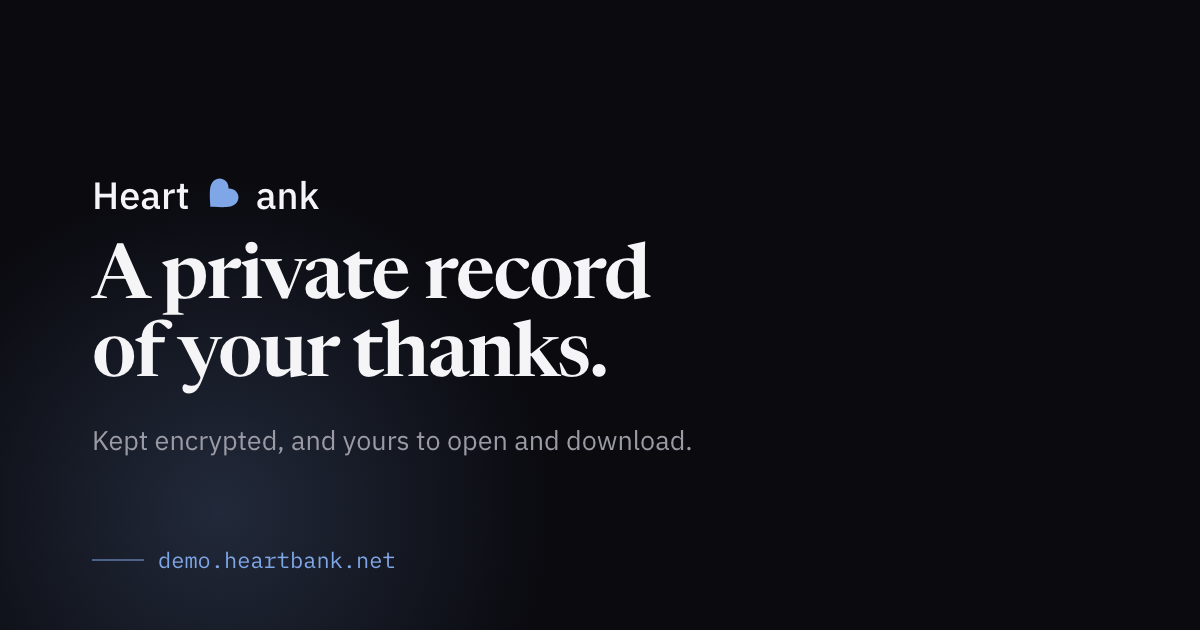
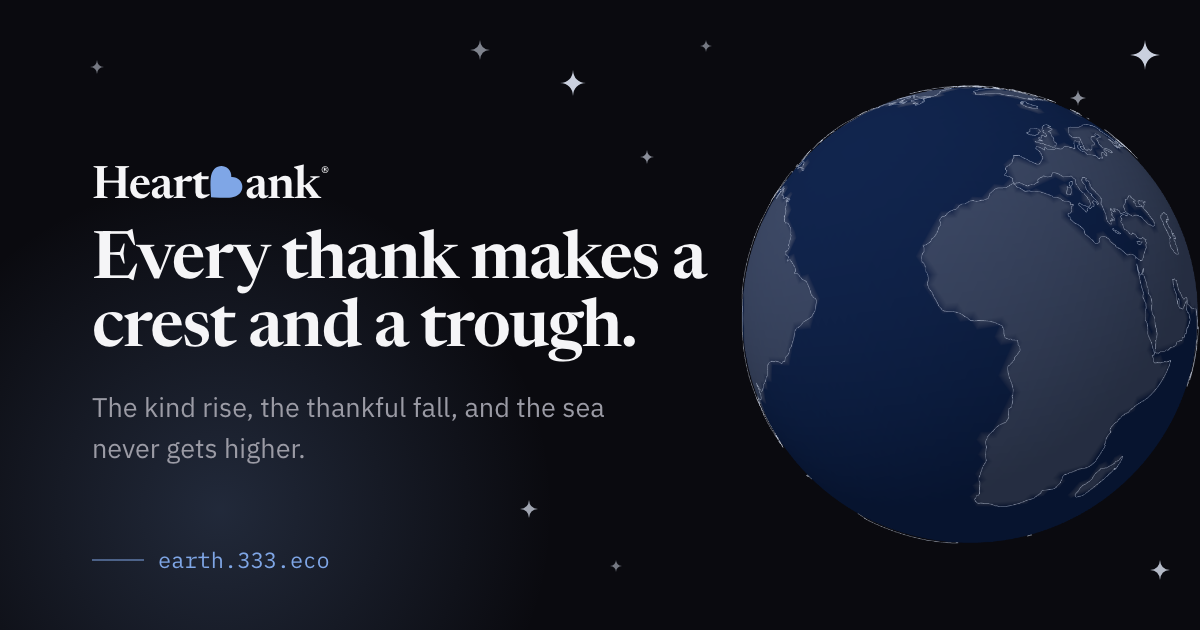
The Earth: new link preview and page descriptions

diff --git a/earth/build-boards.py b/earth/build-boards.py
@@ -83,8 +83,10 @@ T = {
         "ledger_json": "The same data as a file", "ledger_title_tag": "The ledger, day by day · HeartBank®",
         "draft_note": "This is a draft. No lawyer has reviewed it, and it may change before it is final. Where something is not settled yet, it says so.",
         "copied": "Copied", "working": "Working", "auto": "Auto", "light": "Light", "dark": "Dark",
-        "title_home": "A private record of your thanks · HeartBank®", "title_you": "Your record · HeartBank®",
-        "desc": "A private, encrypted record of your thanks, timestamped to a public ledger. Yours to open and download.",
+        "title_home": "Every thank makes a crest and a trough · HeartBank®", "title_you": "Your record · HeartBank®",
+        "desc": "Every thank on HeartBank® makes a crest and a trough on a turning Earth. The kind rise, the thankful fall by the same amount, and the sea never gets higher.",
+        "desc_ledger": "The public sea, day by day and area by area: what is on the map, what is in the open sea, and what they add up to.",
+        "desc_scholars": "The kinds of question a scholar could ask of the gratitude ledger, and the comparison that comes back. Worked here on simulated people.",
         "receipt": "Receipt", "r_place": "Place in the log", "r_finger": "Fingerprint", "r_log": "Log", "r_sig": "Signature",
         "copy": "Copy receipt", "check": "Check it on the public ledger",
         "jubilee": "On 7 January every balance starts again from zero. These entries stay.",
@@ -165,8 +167,10 @@ T = {
         "ledger_json": "ទិន្នន័យដូចគ្នាជាឯកសារ", "ledger_title_tag": "បញ្ជី តាមថ្ងៃនីមួយៗ · HeartBank®",
         "draft_note": "នេះជាសេចក្តីព្រាង ហើយមានជាភាសាអង់គ្លេសតែប៉ុណ្ណោះនៅពេលនេះ។ មិនទាន់មានមេធាវីពិនិត្យទេ ហើយវាអាចផ្លាស់ប្តូរមុនពេលចុងក្រោយ។",
         "copied": "បានចម្លង", "working": "កំពុងដំណើរការ", "auto": "ស្វ័យប្រវត្តិ", "light": "ភ្លឺ", "dark": "ងងឹត",
-        "title_home": "កំណត់ត្រាឯកជននៃការអរគុណរបស់អ្នក · HeartBank®", "title_you": "កំណត់ត្រារបស់អ្នក · HeartBank®",
-        "desc": "កំណត់ត្រាឯកជន និងបានអ៊ិនគ្រីបនៃការអរគុណរបស់អ្នក បោះត្រាពេលវេលាទៅក្នុងបញ្ជីសាធារណៈ។ ជារបស់អ្នកសម្រាប់បើកមើល និងទាញយក។",
+        "title_home": "រាល់ការអរគុណបង្កើតកំពូលរលក និងបាតរលក · HeartBank®", "title_you": "កំណត់ត្រារបស់អ្នក · HeartBank®",
+        "desc": "រាល់ការអរគុណនៅលើ HeartBank® បង្កើតកំពូលរលក និងបាតរលកនៅលើផែនដីដែលកំពុងវិល។ អ្នកមានចិត្តល្អឡើង អ្នកដឹងគុណចុះក្នុងចំនួនដូចគ្នា ហើយសមុទ្រមិនដែលខ្ពស់ឡើងទេ។",
+        "desc_ledger": "សមុទ្រសាធារណៈ តាមថ្ងៃ និងតាមតំបន់៖ អ្វីនៅលើផែនទី អ្វីនៅក្នុងសមុទ្របើកចំហ និងផលបូករបស់វា។",
+        "desc_scholars": "ប្រភេទសំណួរដែលអ្នកស្រាវជ្រាវអាចសួរបញ្ជីនៃការដឹងគុណ និងការប្រៀបធៀបដែលត្រឡប់មកវិញ។ បង្ហាញនៅទីនេះលើមនុស្សក្លែងធ្វើ។",
         "receipt": "បង្កាន់ដៃ", "r_place": "ទីតាំងក្នុងកំណត់ហេតុ", "r_finger": "ស្នាមម្រាមដៃឌីជីថល", "r_log": "កំណត់ហេតុ", "r_sig": "ហត្ថលេខា",
         "copy": "ចម្លងបង្កាន់ដៃ", "check": "ពិនិត្យវានៅលើបញ្ជីសាធារណៈ",
         "jubilee": "នៅថ្ងៃទី ៧ មករា សមតុល្យទាំងអស់ចាប់ផ្តើមពីសូន្យឡើងវិញ។ ធាតុទាំងនេះនៅដដែល។",

diff --git a/earth/build-og.py b/earth/build-og.py
@@ -48,12 +48,14 @@ SHELL = """<!doctype html><html><head><meta charset="utf-8">
   .site{display:flex;align-items:center;gap:14px;font-size:38px;font-weight:500;color:@D_INK@;margin-bottom:22px}
   .site .em{margin:0;vertical-align:0}
   .wide{max-width:44ch;font-size:27px}
+  .globe{position:absolute;right:-70px;top:50%;transform:translateY(-50%);width:600px;height:600px}
+  .star{position:absolute;width:var(--s);height:var(--s);color:#dfe6f5}
   .km{font-family:"Noto Sans Khmer","IBM Plex Sans",sans-serif}
   .foot{position:absolute;left:92px;bottom:56px;display:flex;align-items:center;gap:14px;
         font-family:"IBM Plex Mono",ui-monospace,monospace;font-size:22px;color:#7fa6e6}
   .rule{width:52px;height:2px;background:#7fa6e6;opacity:.5}
 </style></head><body>{BODY}
-<div class="foot"><span class="rule"></span>demo.333.eco/earth</div>
+<div class="foot"><span class="rule"></span>{FOOT}</div>
 </body></html>"""
 
 
@@ -62,32 +64,37 @@ def emblem(size_em=".92em"):
             '<path fill="currentColor" d="%s"/></svg>' % (size_em, size_em, EMBLEM))
 
 
+STAR = '<svg class="star" style="--s:%dpx;left:%dpx;top:%dpx;opacity:%s" viewBox="-10 -10 20 20"><path fill="currentColor" d="M0-10Q.6-.6 10 0Q.6.6 0 10Q-.6.6-10 0Q-.6-.6 0-10Z"/></svg>'
+STARS = "".join(STAR % t for t in [(26, 560, 70, .9), (14, 640, 150, .6), (18, 520, 500, .7), (12, 610, 560, .5), (30, 1130, 40, .9), (16, 1070, 90, .6), (20, 1150, 560, .8), (12, 700, 40, .5), (14, 90, 60, .5), (20, 470, 40, .55)])
+GLOBE = '<img class="globe" src="file://%s" alt="">' % os.path.join(HERE, "earth-still-calm.png")
+
+def card(tag):
+    return (STARS + GLOBE + '<div class="inner">'
+            '<div style="font-family:Newsreader,Georgia,serif;font-weight:600;font-size:46px;letter-spacing:-.02em;margin-bottom:20px">Heart' + emblem(".92em") + 'ank<span class="reg">®</span></div>'
+            '<h1 style="font-size:66px;margin-bottom:22px;max-width:9.5em">Every thank makes a crest and a trough.</h1>'
+            '<p class="wide" style="max-width:21em">' + tag + '</p></div>')
+
+# name -> (body, the address at the foot)
 CARDS = {
-    "og.png": '<div class="inner">'
-              '<div class="site">Heart' + emblem("1em") + 'ank</div>'
-              '<h1 style="font-size:76px;margin-bottom:22px">A private record<br>of your thanks.</h1>'
-              '<p class="wide">The ledger.heartbank.net screens. Drawings, in English and Khmer.</p></div>',
-    # The live site's card: no "drawings" on it. Copied to ledger.heartbank.net public/og.png.
-    "og-site.png": '<div class="inner">'
-              '<div class="site">Heart' + emblem("1em") + 'ank</div>'
-              '<h1 style="font-size:76px;margin-bottom:22px">A private record<br>of your thanks.</h1>'
-              '<p class="wide">Kept encrypted, and yours to open and download.</p></div>',
+    "og.png": (card("The earth.333.eco screens. Drawings, in English and Khmer."), "demo.333.eco/earth"),
+    # The live site's card: no "drawings" on it. sync-site copies it to the ledger's public/og.png.
+    "og-site.png": (card("The kind rise, the thankful fall, and the sea never gets higher."), "earth.333.eco"),
 }
 
 def main():
     if not os.path.exists(CHROME):
         sys.exit("Chrome not found at %s — render the cards elsewhere." % CHROME)
     only = set(sys.argv[1:])
-    for name, body in CARDS.items():
+    for name, (body, foot) in CARDS.items():
         if only and name not in only:
             continue
         with tempfile.TemporaryDirectory() as tmp:
             src = os.path.join(tmp, "card.html")
-            io.open(src, "w", encoding="utf-8").write(brand_fill(SHELL).replace("{BODY}", body))
+            io.open(src, "w", encoding="utf-8").write(brand_fill(SHELL).replace("{BODY}", body).replace("{FOOT}", foot))
             out = os.path.join(HERE, name)
             subprocess.run([CHROME, "--headless", "--disable-gpu", "--hide-scrollbars",
                             "--force-device-scale-factor=1", "--window-size=1200,630",
-                            "--virtual-time-budget=4000",
+                            "--virtual-time-budget=4000", "--allow-file-access-from-files",
                             "--screenshot=" + out, "file://" + src],
                            check=True, capture_output=True)
             print("%-22s %6d bytes" % (name, os.path.getsize(out)))
